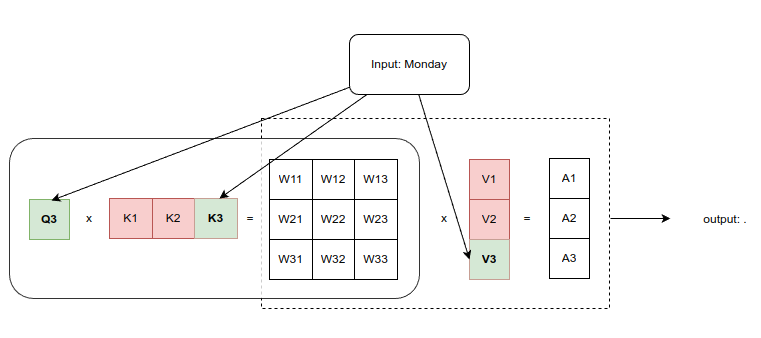
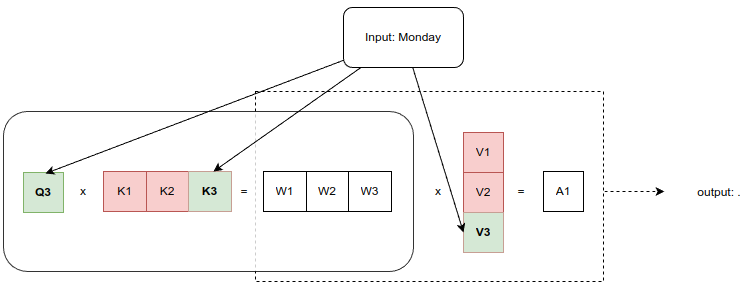
GPU Infer

diff --git a/source/ch12-train/inference/README.md b/source/ch12-train/inference/README.md
@@ -20,19 +20,19 @@ Scenario: Given Prompt "It"
    - The figure starts with the input token "It". This input is used to generate the query (Q1), key (K1), and value (V1) vectors through linear transformations.
 
 2. **Q1 and K1 Multiplication (Attention Score Calculation):**
-   - **Q1 (Query Vector for "It"):** This represents the query vector for the input token "It". It is a projection of the input token "It" after being processed by the query linear layer (`wq`).
-   - **K1 (Key Vector for "It"):** This represents the key vector for the input token "It". It is a projection of the input token "It" after being processed by the key linear layer (`wk`).
-   - The query vector Q1 is multiplied with the key vector K1. This operation gives a single attention score/weight (`W11`), which reflects the relevance of the token "It" with itself. Since "It" is the only token at this stage, this score essentially measures the importance of "It" in predicting the next word.
+   - **Q1 (Query Vector for "It"):** This represents the query vector for the input token "It". It is a projection of the input token "It" after being processed by the query linear layer.
+   - **K1 (Key Vector for "It"):** This represents the key vector for the input token "It". It is a projection of the input token "It" after being processed by the key linear layer.
+   - The query vector Q1 is multiplied with the key vector K1. This operation gives a single attention score/weight (`W1`), which reflects the relevance of the token "It" with itself. Since "It" is the only token at this stage, this score essentially measures the importance of "It" in predicting the next word.
 
 3. **Application of the Attention Weight:**
-   - **W11 (Attention Weight):** The resulting attention score is then used as a weight to scale the value vector V1. This scaling operation adjusts the importance of the information stored in V1, based on the relevance determined by W11.
+   - **W1 (Attention Weight):** The resulting attention score is then used as a weight to scale the value vector V1. This scaling operation adjusts the importance of the information stored in V1, based on the relevance determined by W1.
    - **V1 (Value Vector for "It"):** This represents the value vector for the input token "It". It is a projection of the input token "It" after being processed by the value linear layer (`wv`).
 
 4. **A1 (Aggregated Output):**
    - The scaled value vector V1 is then summed (or in this case, directly used since it's the only token) to produce the aggregated output A1. This output encapsulates the information about the input token "It" after being processed by the attention mechanism.
 
 5. **Output: "is":**
-   - The aggregated output A1 is passed through a final linear transformation (not shown in the figure) and a softmax function to predict the next token in the sequence. Given the context provided by A1, the model predicts the next token as "is".
+   - The aggregated output A1 is passed through other blocks in the model to predict the next token in the sequence. Given the context provided by A1, the model predicts the next token as "is".
 
 ![](kv_cache_2.png)
 
@@ -47,18 +47,15 @@ Scenario: Given Prompt "It"
    - **Q2 (Query Vector for "is"):** This represents the query vector generated from the input token "is". It is computed using a linear transformation from the embedding of "is".
    - **K1 (Key Vector for "It") & K2 (Key Vector for "is"):** These are the key vectors generated from the previous tokens "It" and "is". `K1` was cached from the previous step, and `K2` is generated from the current input "is".
    - The query vector `Q2` is multiplied with both `K1` and `K2` to compute attention scores. The result is a matrix of attention scores:
-     - `W11`: The attention score between `Q2` and `K1` (how much "is" should focus on "It").
-     - `W12`: The attention score between `Q2` and `K2` (how much "is" should focus on itself).
-     - `W21` and `W22`: These scores are symmetric because they are related to the interaction between the same pairs of vectors (`Q2` with `K1` and `K2`).
+     - `W1`: The attention score between `Q2` and `K1` (how much "is" should focus on "It").
+     - `W2`: The attention score between `Q2` and `K2` (how much "is" should focus on itself).
 
 3. **Application of Attention Weights:**
    - **V1 (Value Vector for "It") & V2 (Value Vector for "is"):** The value vectors associated with the keys. `V1` comes from the previous token "It", and `V2` comes from the current token "is".
-   - The attention scores (W11, W12, W21, W22) are applied to the corresponding value vectors:
-     - `A1 = W11 * V1 + W12 * V2`: Weighted sum, also scaled V1 considering its attentions to itself and V2.
-     - `A2 = W21 * V1 + W22 * V2`: Another scaled V2 considering its attentions to V1 and itself.
+   - The attention scores (W1, W2) are applied to the corresponding value vectors as a weighted sum:`A1 = W1 * V1 + W2 * V2`
 
 4. **Output: "Monday"**
-   - The combined outputs `A1` and `A2` are then passed through a softmax function to produce a probability distribution over the vocabulary, and the model predicts the next token "Monday" based on this distribution.
+   - The output `A1` is then passed through the rest of the model. It predicts the next token is "Monday".
 
 ### Step 3: Predicting the next token "." given the input "Monday"
 
@@ -66,7 +63,9 @@ Scenario: Given Prompt "It"
 
 ![](kv_cache_3.png)
 
-The same as step 2.
+Step 3 is very similar to step 2.
+
+The KV cache is used to store the key (K) and value (V) tensors from each previous token in the sequence. By caching these vectors, the model does not need to recompute them for each new token in the sequence. **This is crucial in autoregressive models where each new token relies on the entire context of previously generated tokens.**
 
 
 ## Naive KV-Cache Implementation
@@ -108,7 +107,23 @@ class Attention(nn.Module):
         return self.wo(output)
 ```
 
-The problem with Naive KV-Cache Algorithm.
+Consider Llama 7B(n_local_heads=32, head_dim=128, hidden_dim=4096) and prompt: `I believe the meaning of life is`. In the first iteration, there are 8 tokens, including `SOS`, so we have:
+- x.shape: (1,8,32,128)
+- shape of q, k, v, and output: (1,8,32,128)
+- shape of scores: (1,32,8,8)
+
+For the rest iterations, the input is 1 token, so we have:
+- x.shape: (1,1,32,128)
+- shape of q and output: (1,1,32,128)
+- shape of k, v: (1,L,32,128)
+- shape of scores: (1,32,1,L)
+
+where L is [9,10,11....]
+
+The problem with Naive KV-Cache Algorithm are:
+- reserved memory waste
+- internal fragmentation
+- external fragmentation
 
 ![](kv_cache_4.png)
 
